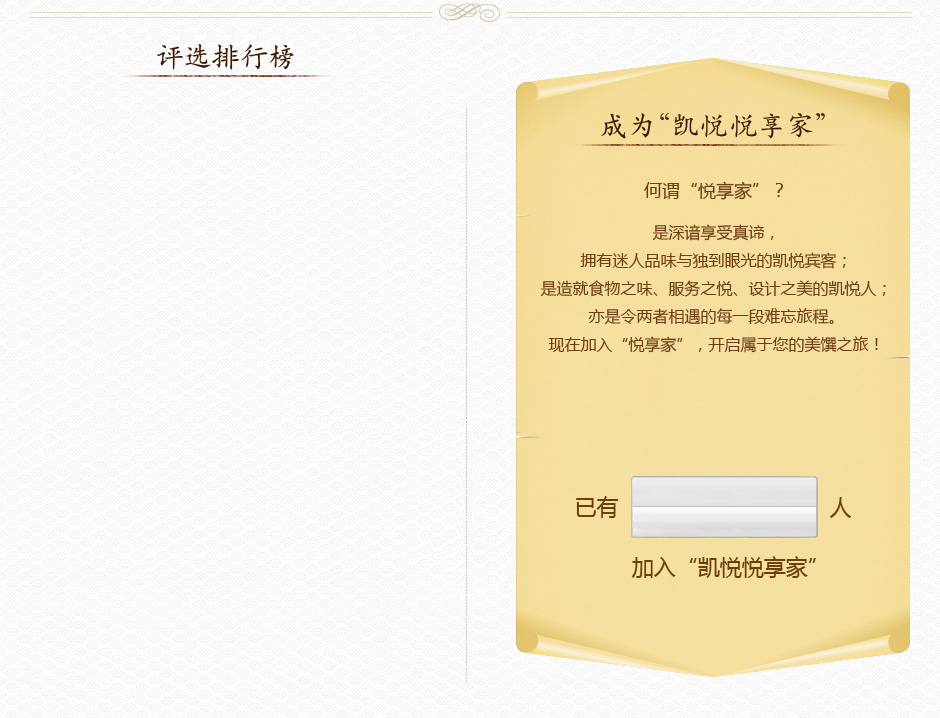
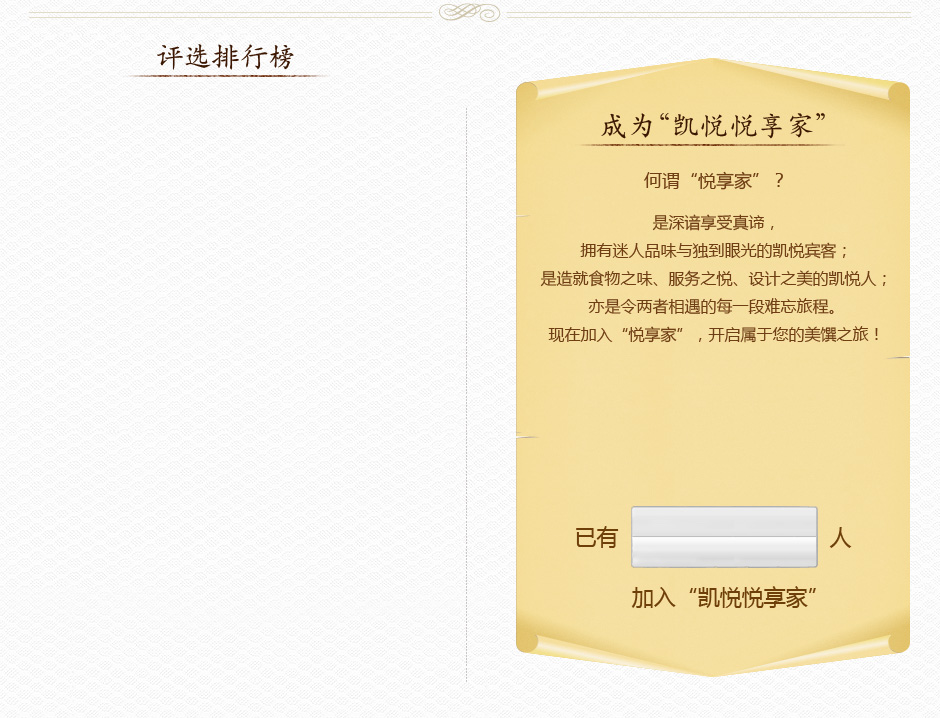
3333

Changed region(s): [[0.5553, 0.2451, 0.9255, 0.4903], [0.617, 0.6435, 0.8947, 0.8579]]

diff --git a/static/css/style.css b/static/css/style.css
@@ -107,10 +107,12 @@ a:active{noOutline:expression(this.onFocus=this.blur());}
 			.btn_more a:hover{opacity:0.7;filter:alpha(opacity=70);}
 		
 	.phb_right{ float:left; width:490px;}
-		.btn_join{ padding:391px 0 0 150px; width:220px; height:49px;}
-			.btn_join a{ display:inline-block; width:220px; height:49px; background:url(../images/btn_join.png) no-repeat;}
+		.input_email{ width:253px; height:48px;padding:370px 0 0 130px;}
+			.input_email input{ width:200px; border:none; padding:10px 3px 10px 50px; height:28px; line-height:28px; font-size:18px; background:url(../images/searchbg1.png) no-repeat; color:#8b8b8b;}
+		.btn_join{ padding:10px 0 0 130px; width:251px; height:49px;}
+			.btn_join a{ display:inline-block; width:251px; height:49px; background:url(../images/btn_join.png) no-repeat;}
 			.btn_join a:hover{opacity:0.7;filter:alpha(opacity=70);}
-		.btn_num{ width:189px; height:64px; padding:40px 0 0 180px; text-align:center; line-height:64px; font-size:50px; font-weight:800; color:#000;}
+		.btn_num{ width:189px; height:64px; padding:32px 0 0 180px; text-align:center; line-height:64px; font-size:50px; font-weight:800; color:#000;}
 		.btn_img{ padding:45px 0 0 45px;}
 .wbry{ width:940px; height:410px; background:url(../images/wbry.jpg) no-repeat; padding:138px 0 0 0;}
 	.wbry_left{ float:left; width:470px;}
@@ -320,3 +322,15 @@ a:active{noOutline:expression(this.onFocus=this.blur());}
 	box-shadow:0 1px 2px rgba(0,0,0,0.25), inset 0 0 3px #fff;
 }
 /*-------- end slider -----------*/
+
+/*弹出层*/
+.mydiv { width:500px; height:266px; background:url(../images/popbg.png) no-repeat; z-index:99; left:50%; top: 50%; margin-left:-250px!important; margin-top:-133px!important;position:absolute;/*FF IE7*/position:fixed!important;}
+.hidebg { width:100%; height:100%; background: #000;   filter:alpha(opacity=50);/*IE*/    opacity:0.5;/*FF*/    z-index:1;  position:absolute;/*IE6*/ position:fixed; left:0; top:0; }  
+a.btn_del{ width:14px; height:15px; text-decoration:none; background:url(../images/icon_close.png) no-repeat; display:inline-block; right:10px; top:10px; position:
+absolute;}
+a.btn_del:hover{opacity:0.7;filter:alpha(opacity=70);}
+.popcon{ width:313px; height:280px; margin:0 auto; padding:120px 0 0 0 }
+	.pop_input input{width:260px; border:none; padding:10px 3px 10px 50px; height:28px; line-height:28px; font-size:18px; background:url(../images/searchbg2.png) no-repeat; color:#8b8b8b;}
+	.pop_join{ width:269px; height:35px; margin:22px auto 0;}
+	.pop_join a{ width:269px; height:35px; text-decoration:none; background:url(../images/btn_jiaru.png) no-repeat; display:inline-block; }
+	.pop_join a:hover{opacity:0.7;filter:alpha(opacity=70);}

diff --git a/application/views/index.php b/application/views/index.php
@@ -18,14 +18,48 @@
 
     <script>
         var sharebutton = function(){
-            alert('投票活动将于9月1日正式开始，敬请期待！');
+            showBg();
+//            alert('投票活动将于9月1日正式开始，敬请期待！');
 //            var url = 'http://service.weibo.com/share/share.php?url=http%3A%2F%2Fopen.weibo.com%2Fsharebutton&appkey=2131282401&language=zh_cn&title=%E8%BF%99%E6%98%AF%E9%A2%84%E5%88%B6%E6%96%87%E6%A1%88&source=&sourceUrl=&ralateUid=2259266354&message=&uids=&pic=&searchPic=false&content=';
 //            window.open (url, '分享到新浪微博', 'height=100, width=400, top=0, left=0, toolbar=no, menubar=no, scrollbars=no, resizable=no,location=n o, status=no')
         }
     </script>
 
+    <script language="javascript">
+        function toolTip(str) {
+        }
+
+        //显示灰色 jQuery 遮罩层
+        function showBg() {
+
+            $("#hidebg").css({
+                display: "block"
+            });
+            $("#popDiv").show();
+        }
+        //关闭灰色 jQuery 遮罩
+        function closeBg() {
+            $("#hidebg,#popDiv").hide();
+        }
+    </script>
+
+
 </head>
 <body style="background: #FFFFFF;">
+
+<!--pop start-->
+<div id="popDiv" class="mydiv" style="display:none;">
+    <a href="javascript:closeBg()" class="btn_del" title="关闭"></a>
+    <div class="popcon">
+        <div class="pop_input"><input id="kw" name="keyword" value="请输入您的邮箱" onfocus="this.value='';this.style.color='#333'" onblur="if(this.value==''){this.value='请输入您的邮箱';this.style.color='#8b8b8b'}">
+        </div>
+        <div class="clear20"></div>
+        <div class="pop_join"><a href="javascript:void(0);" onclick="alert('活动将于9月1日正式上线，请您届时加入凯悦悦享家！');" title="点击加入“凯悦悦享家”"></a></div>
+    </div>
+</div>
+<div id="hidebg" class="hidebg" style="display:none"></div>
+<!--pop end-->
+
 <div class="contain">
 <!--头部 start-->
 <div class="header">
@@ -116,11 +150,14 @@
         <div class="btn_more"><a href="<?=$this->config->base_url()?>all" title="查看更多"></a></div>
     </div>
     <!--排行版  右侧-->
+
     <div class="phb_right">
-        <div class="btn_join"><a href="javascript:void(0)" onclick="alert('活动将于9月1日正式上线，请您届时加入凯悦悦享家！');"></a></div>
-        <div class="btn_num">00013</div>
+        <div class="input_email"><input id="kw" name="keyword" value="请输入您的邮箱" onfocus="this.value='';this.style.color='#333'" onblur="if(this.value==''){this.value='请输入您的邮箱';this.style.color='#8b8b8b'}"></div>
+        <div class="btn_join"><a  onclick="alert('活动将于9月1日正式上线，请您届时加入凯悦悦享家！');" href="javascript:void();" title="点击加入“凯悦悦享家”"></a></div>
+        <div class="btn_num">00051</div>
 
     </div>
+
 </div>
 <!--排行版 end-->
 <!--微博热议 start-->
